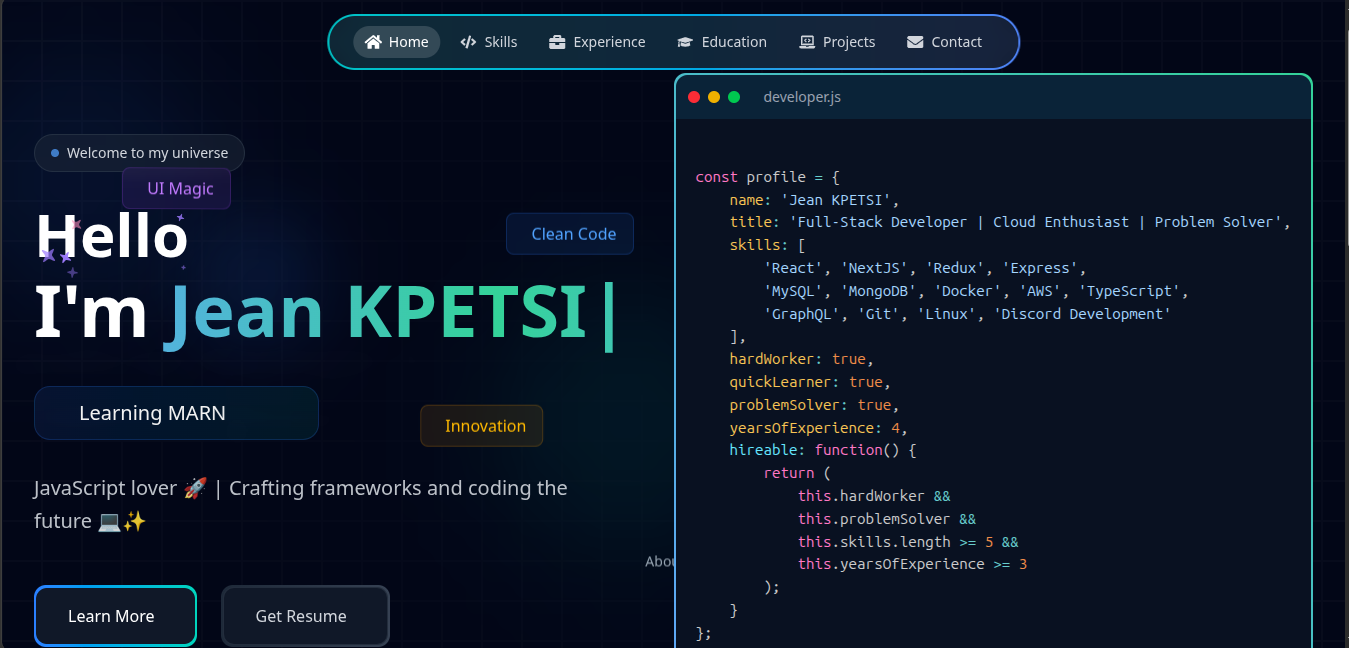
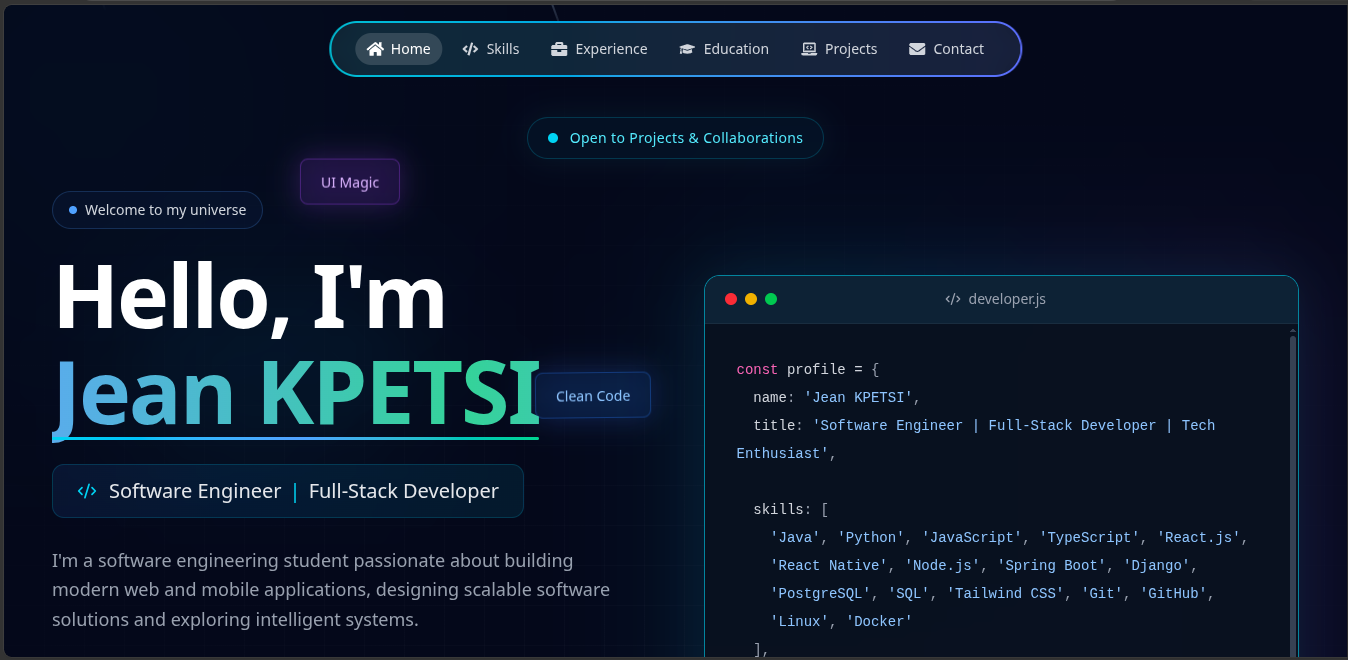
Update demo screeshot README.md

diff --git a/README.md b/README.md
@@ -17,7 +17,7 @@ Welcome to my **portfolio website**! This site showcases my skills, experience, 
 
 ## Demo
 
-![Portfolio Demo](https://i.postimg.cc/Dfr5jCQp/Screenshot-2025-01-02-120901.png)
+![Portfolio Demo](./src/public/demo.png)
 
 ---
 
@@ -198,4 +198,4 @@ This project is licensed under the MIT License - see the LICENSE file for detail
 
 ---
 
-<div align="center"> Made with ❤ by Nazmul Hossain </div>
+<div align="center"> Made with ❤ Us </div>
